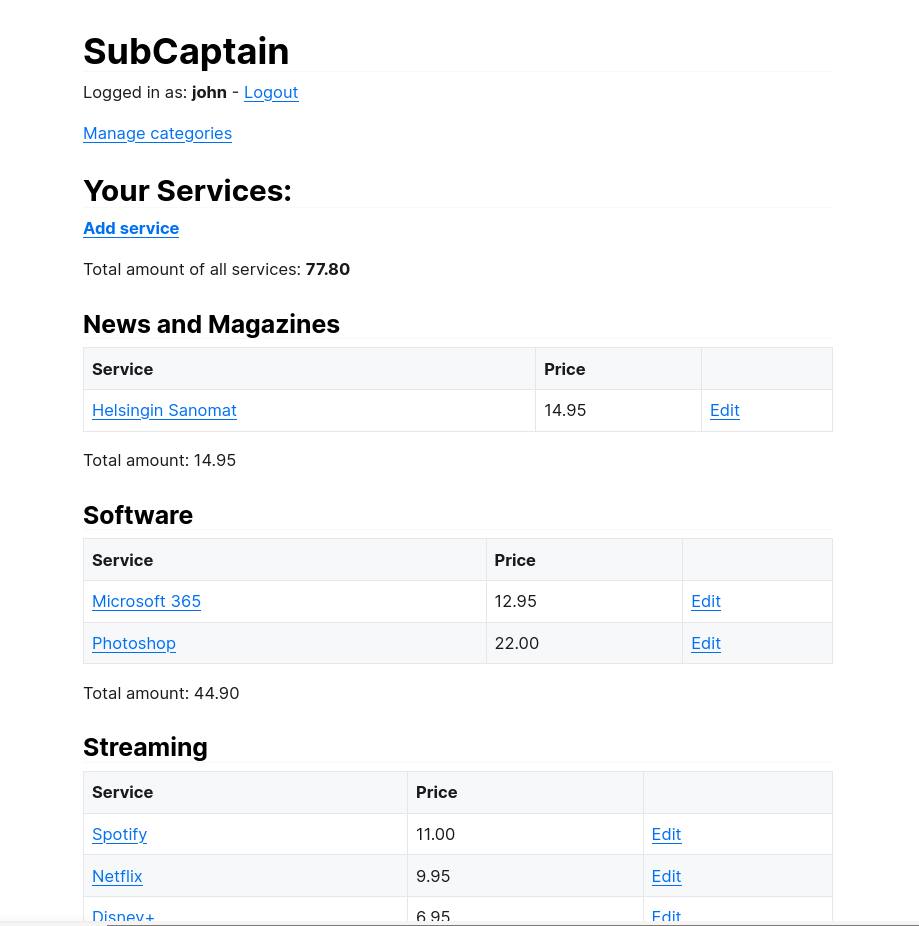
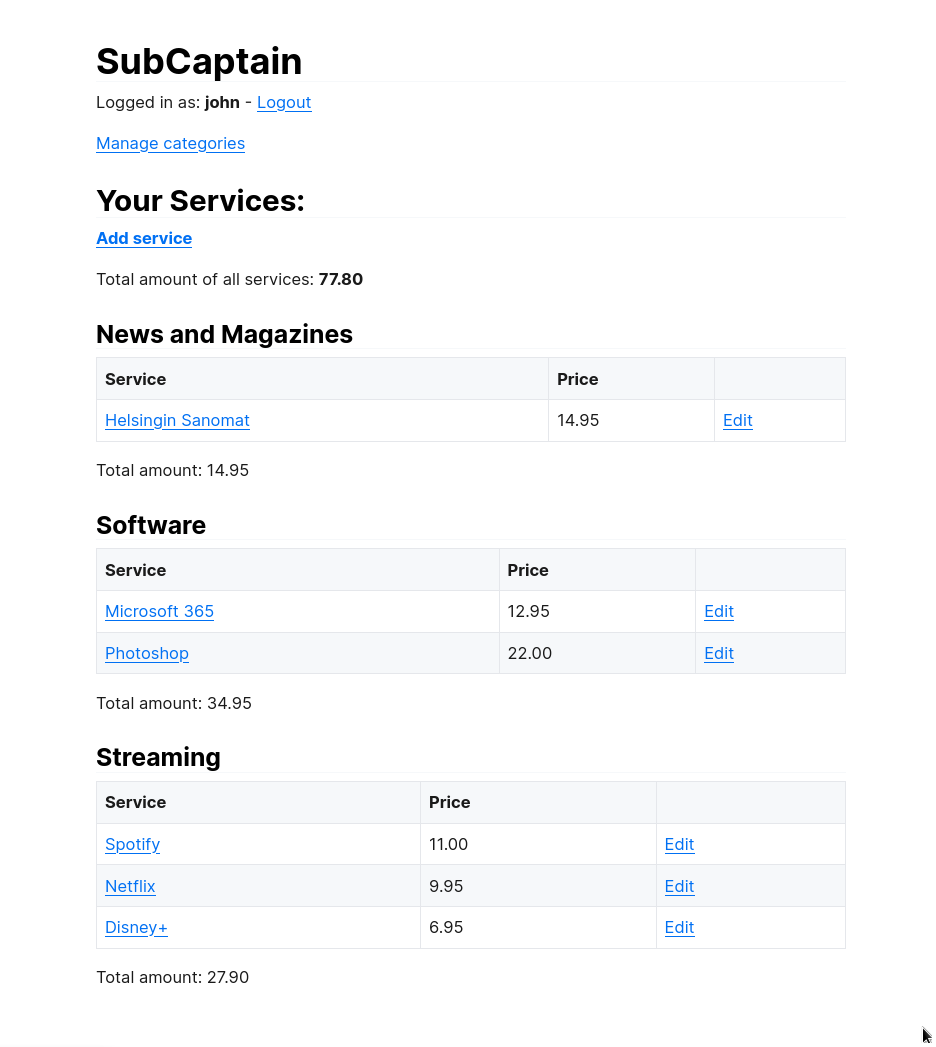
Fix category total amount bug in default categories. Update readme screenshot.

diff --git a/subcaptain/views.py b/subcaptain/views.py
@@ -32,8 +32,8 @@ class RecurringPaymentListView(LoginRequiredMixin, ListView):
 		if total_amount is None:
 			total_amount = 0.0
 
-		category_total = RecurringPayment.objects.values('category__name').annotate(total_amount=Sum('amount'))
-	
+		category_total = payments.values('category__name').annotate(total_amount=Sum('amount'))	
+		
 		context['total_amount'] = total_amount
 		context['category_total'] = category_total
 		return context
